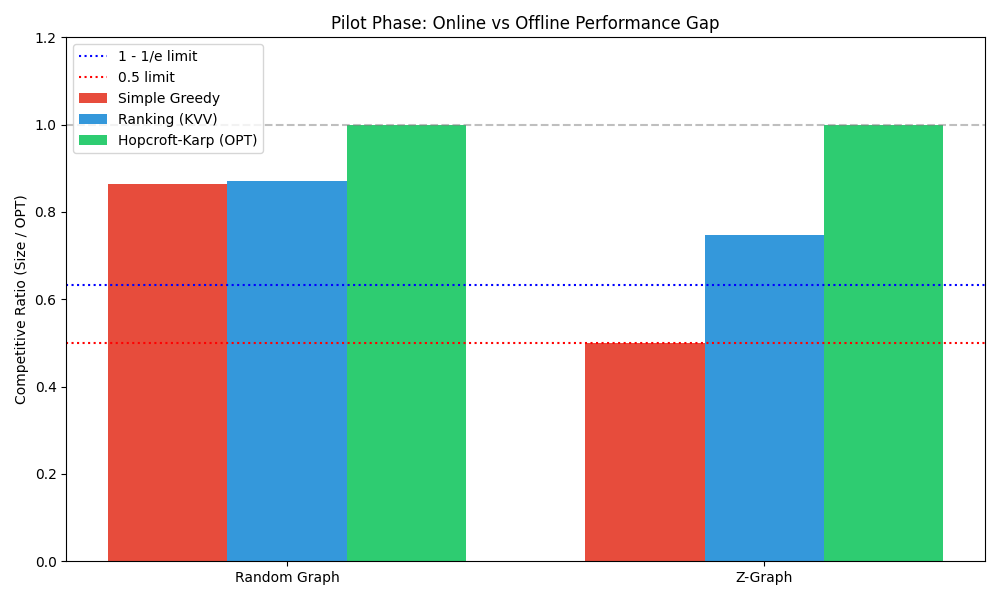
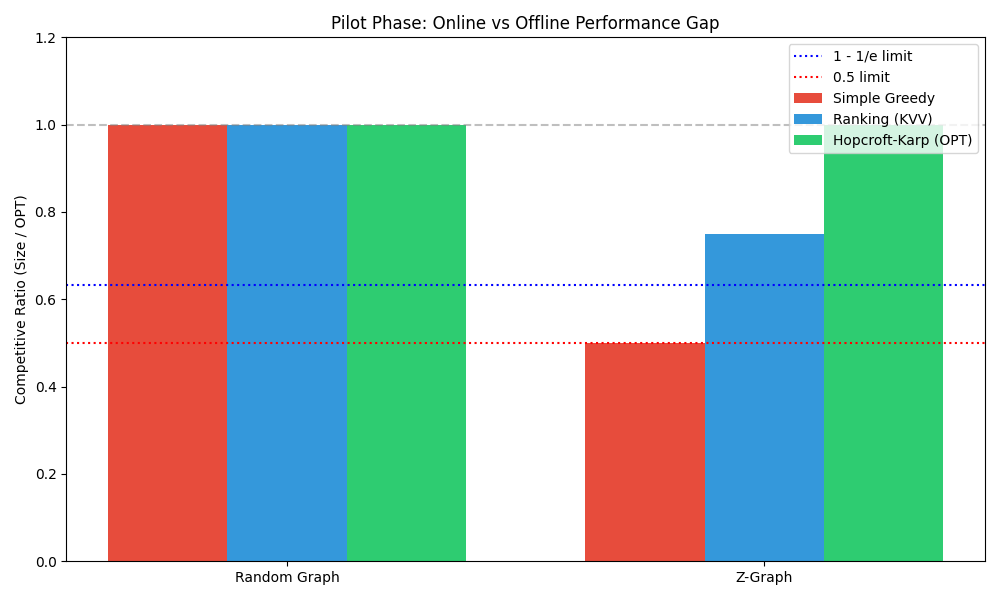
Small fixes in README

Changed region(s): [[0.062, 0.06, 0.372, 0.33], [0.775, 0.06, 0.992, 0.27]]

diff --git a/src/pilot/pilot_vis.py b/src/pilot/pilot_vis.py
@@ -7,11 +7,11 @@ from BipartitePilot import BipartitePilot
 
 def run_mini_horse_race():
     # Parameters
-    n_pairs = 25
+    n_pairs = 4096
     trials_ranking = 50
 
     # Graphs Generation
-    random_graph = generate_random_bipartite(n_pairs, 0.1)
+    random_graph = generate_random_bipartite(n_pairs, 1) 
     z_graph = generate_z_graph(n_pairs)
 
     datsets = {"Random Graph": random_graph, "Z-Graph": z_graph}

diff --git a/src/pilot/pilot_test.py b/src/pilot/pilot_test.py
@@ -33,7 +33,7 @@ def run_smoke_test():
 
 def run_horse_race_pilot():
     print("Running horse race pilot test...")
-    n_pairs = 10
+    n_pairs = 4096
     graph = generate_z_graph(n_pairs)
 
     # Optimal Matching
@@ -86,4 +86,4 @@ def valide_hk_implementation():
     print(f"Pilot HK Size: {size}")
 
 if __name__ == "__main__":
-    valide_hk_implementation()
+    run_horse_race_pilot()

diff --git a/README.md b/README.md
@@ -156,7 +156,7 @@ Tests algorithmic complexity by doubling input size $N \in \{1024, 2048, ..., 32
 - Ranking: $\approx 2.0$ (linear)
 
 ```bash
-python main.py --config ../configs/scalability_study.json
+python src/main.py --config ../configs/scalability_study.json
 ```
 
 ### 2. Robustness Study (Factorial Design)
@@ -167,7 +167,7 @@ Full factorial experiment crossing:
 - **Arrival Order**: `random`, `adversarial` (greedy starvation heuristic)
 
 ```bash
-python main.py --config ../configs/horserace_study.json
+python src/main.py --config ../configs/horserace_study.json
 ```
 
 ### 3. Real-World Analysis
@@ -179,7 +179,7 @@ Evaluates algorithms on the **MovieLens 100K** dataset:
 - Edges represent ratings $\geq 4.0$
 
 ```bash
-python main.py --config ../configs/movie_real.json
+python src/main.py --config ../configs/movie_real.json
 ```
 
 ### 4. Stress Testing
@@ -192,7 +192,7 @@ Deterministic verification on edge cases:
 - Adversarial Z-trap structures
 
 ```bash
-python main.py --config ../configs/stress_study.json
+python src/main.py --config ../configs/stress_study.json
 ```
 
 ---
@@ -221,6 +221,8 @@ OnlineBipartiteMatching/
         │   └── test_config.json
         │
         ├── data/                       # Dataset storage (e.g., MovieLens)
+        |
+        ├── analysis_logs/                       # Experiment logs with timestamps
         │
         ├── results/                    # CSV output from experiments
         │   ├── Scalability_Study_*.csv
@@ -248,18 +250,17 @@ OnlineBipartiteMatching/
 After running experiments, generate visualizations using the analysis module:
 
 ```bash
-cd src/workhorse/src
-python analysis.py
+python src/analysis.py
 ```
 
 ### Generated Plots
 
-| Plot                              | Description                          |
-| --------------------------------- | ------------------------------------ |
-| `scalability_loglog_plot.png`     | Log-log time complexity verification |
-| `robustness_boxplot.png`          | CR distribution by arrival order     |
-| `robustness_interaction_plot.png` | Factorial interaction effects        |
-| `realworld_cr_barplot.png`        | MovieLens performance comparison     |
+| Plot                                | Description                          |
+| ----------------------------------- | ------------------------------------ |
+| `scalability_loglog_plot_*.pdf`     | Log-log time complexity verification |
+| `robustness_boxplot_*.pdf`          | CR distribution by arrival order     |
+| `robustness_interaction_plot_*.pdf` | Factorial interaction effects        |
+| `realworld_cr_barplot_*.pdf`        | MovieLens performance comparison     |
 
 ## References
 
